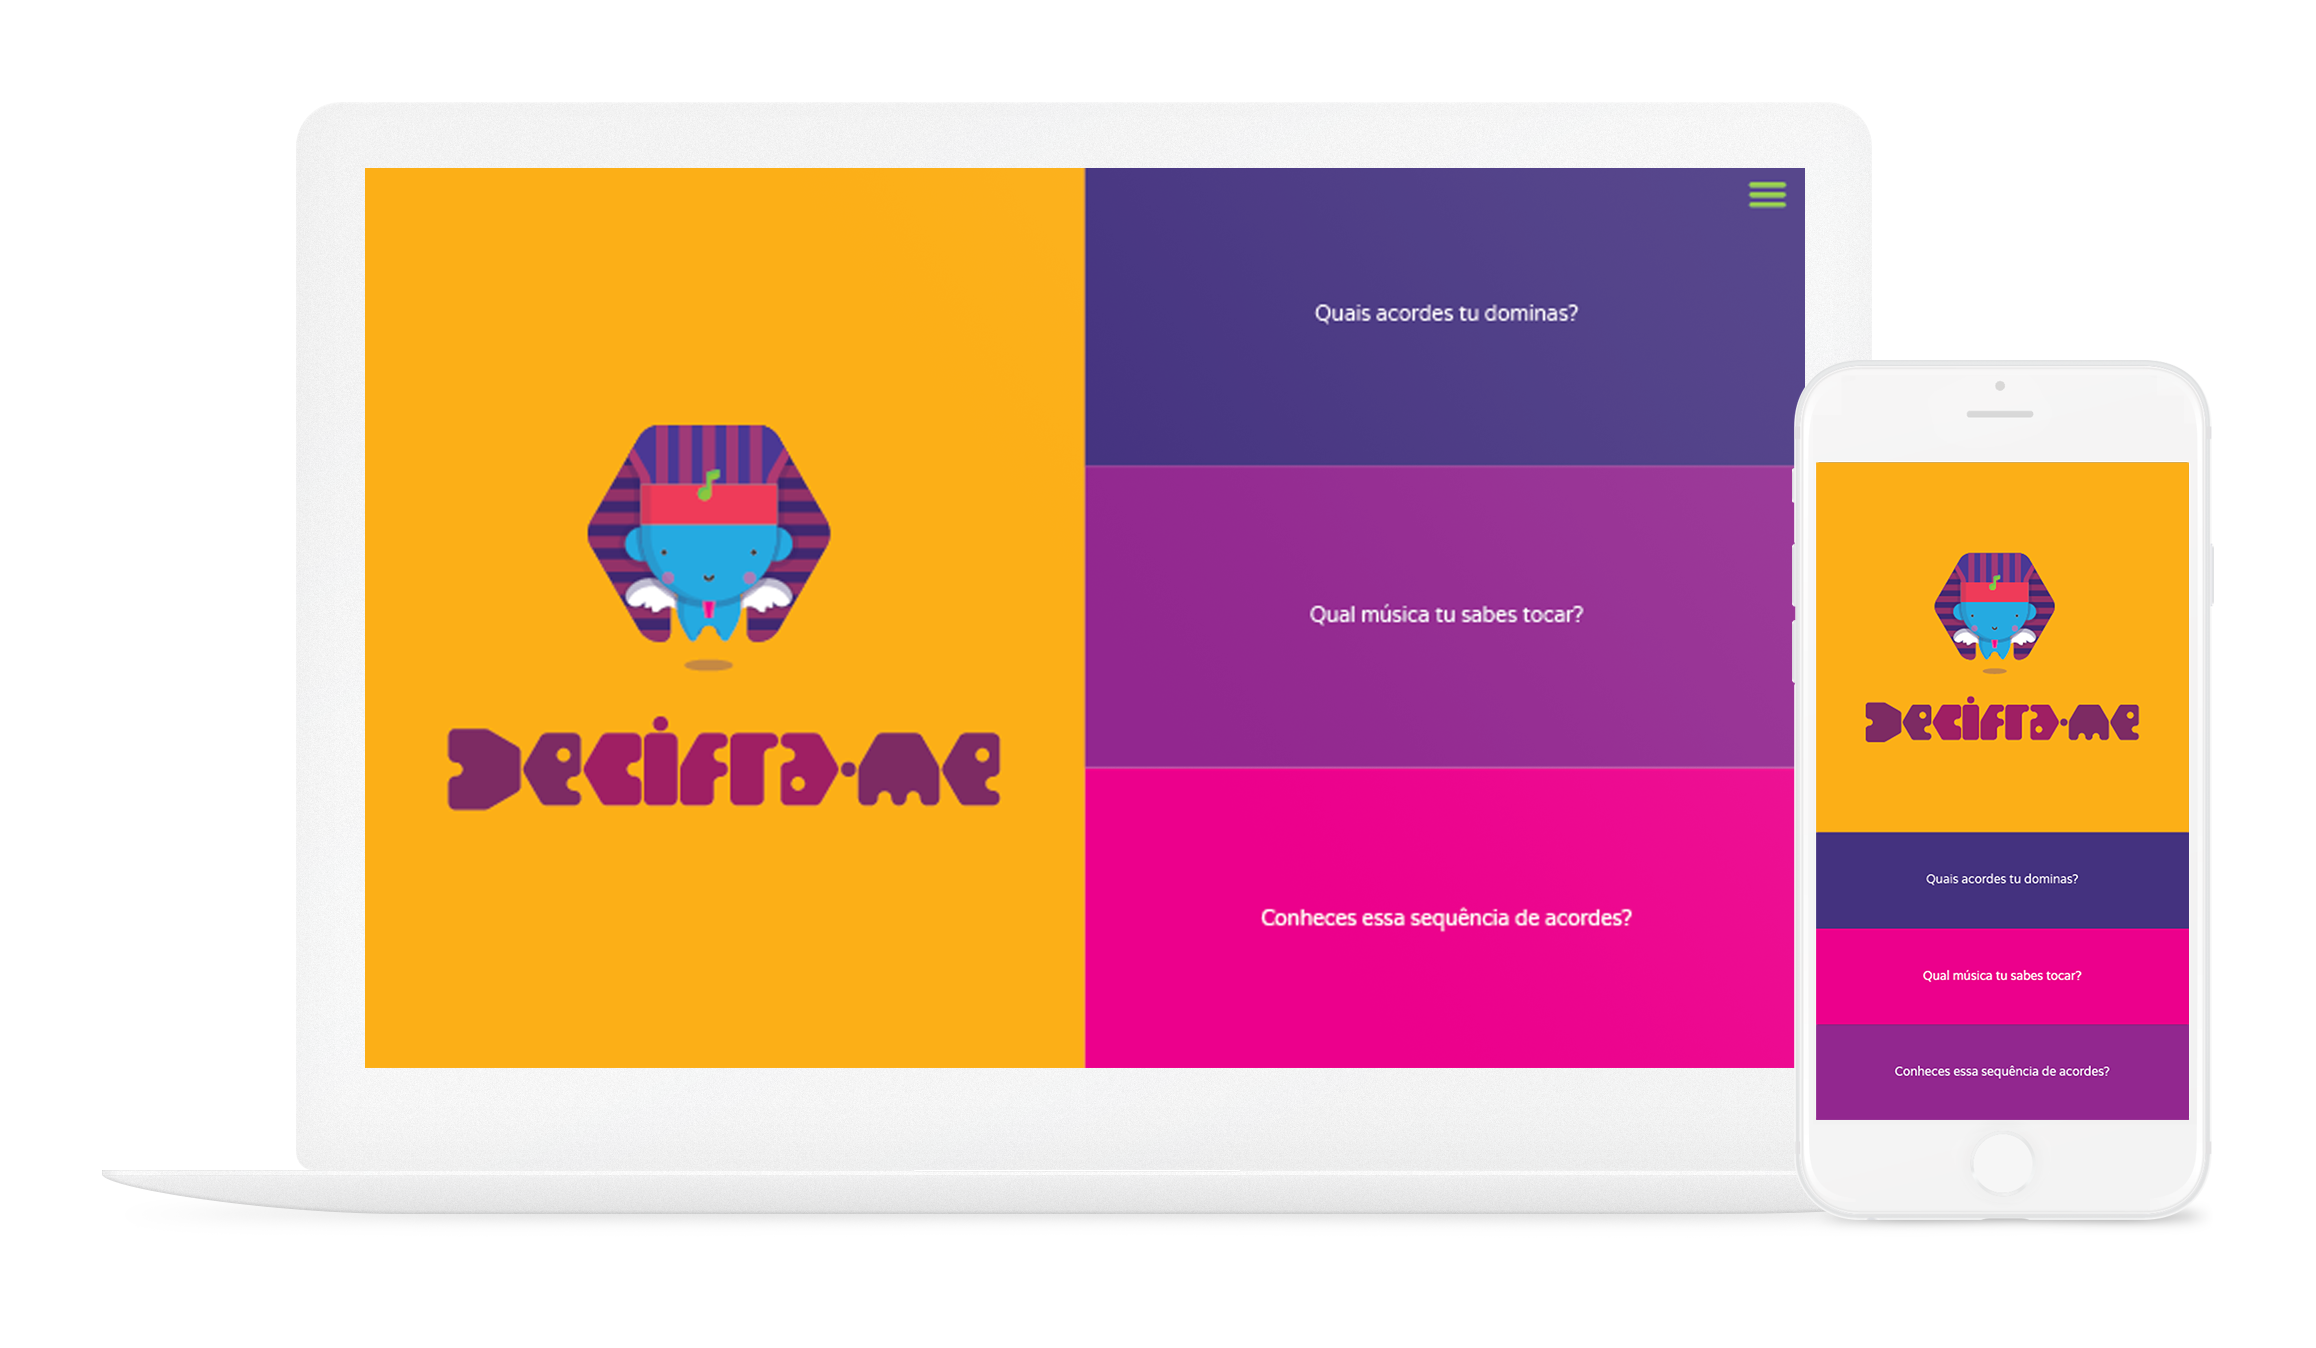
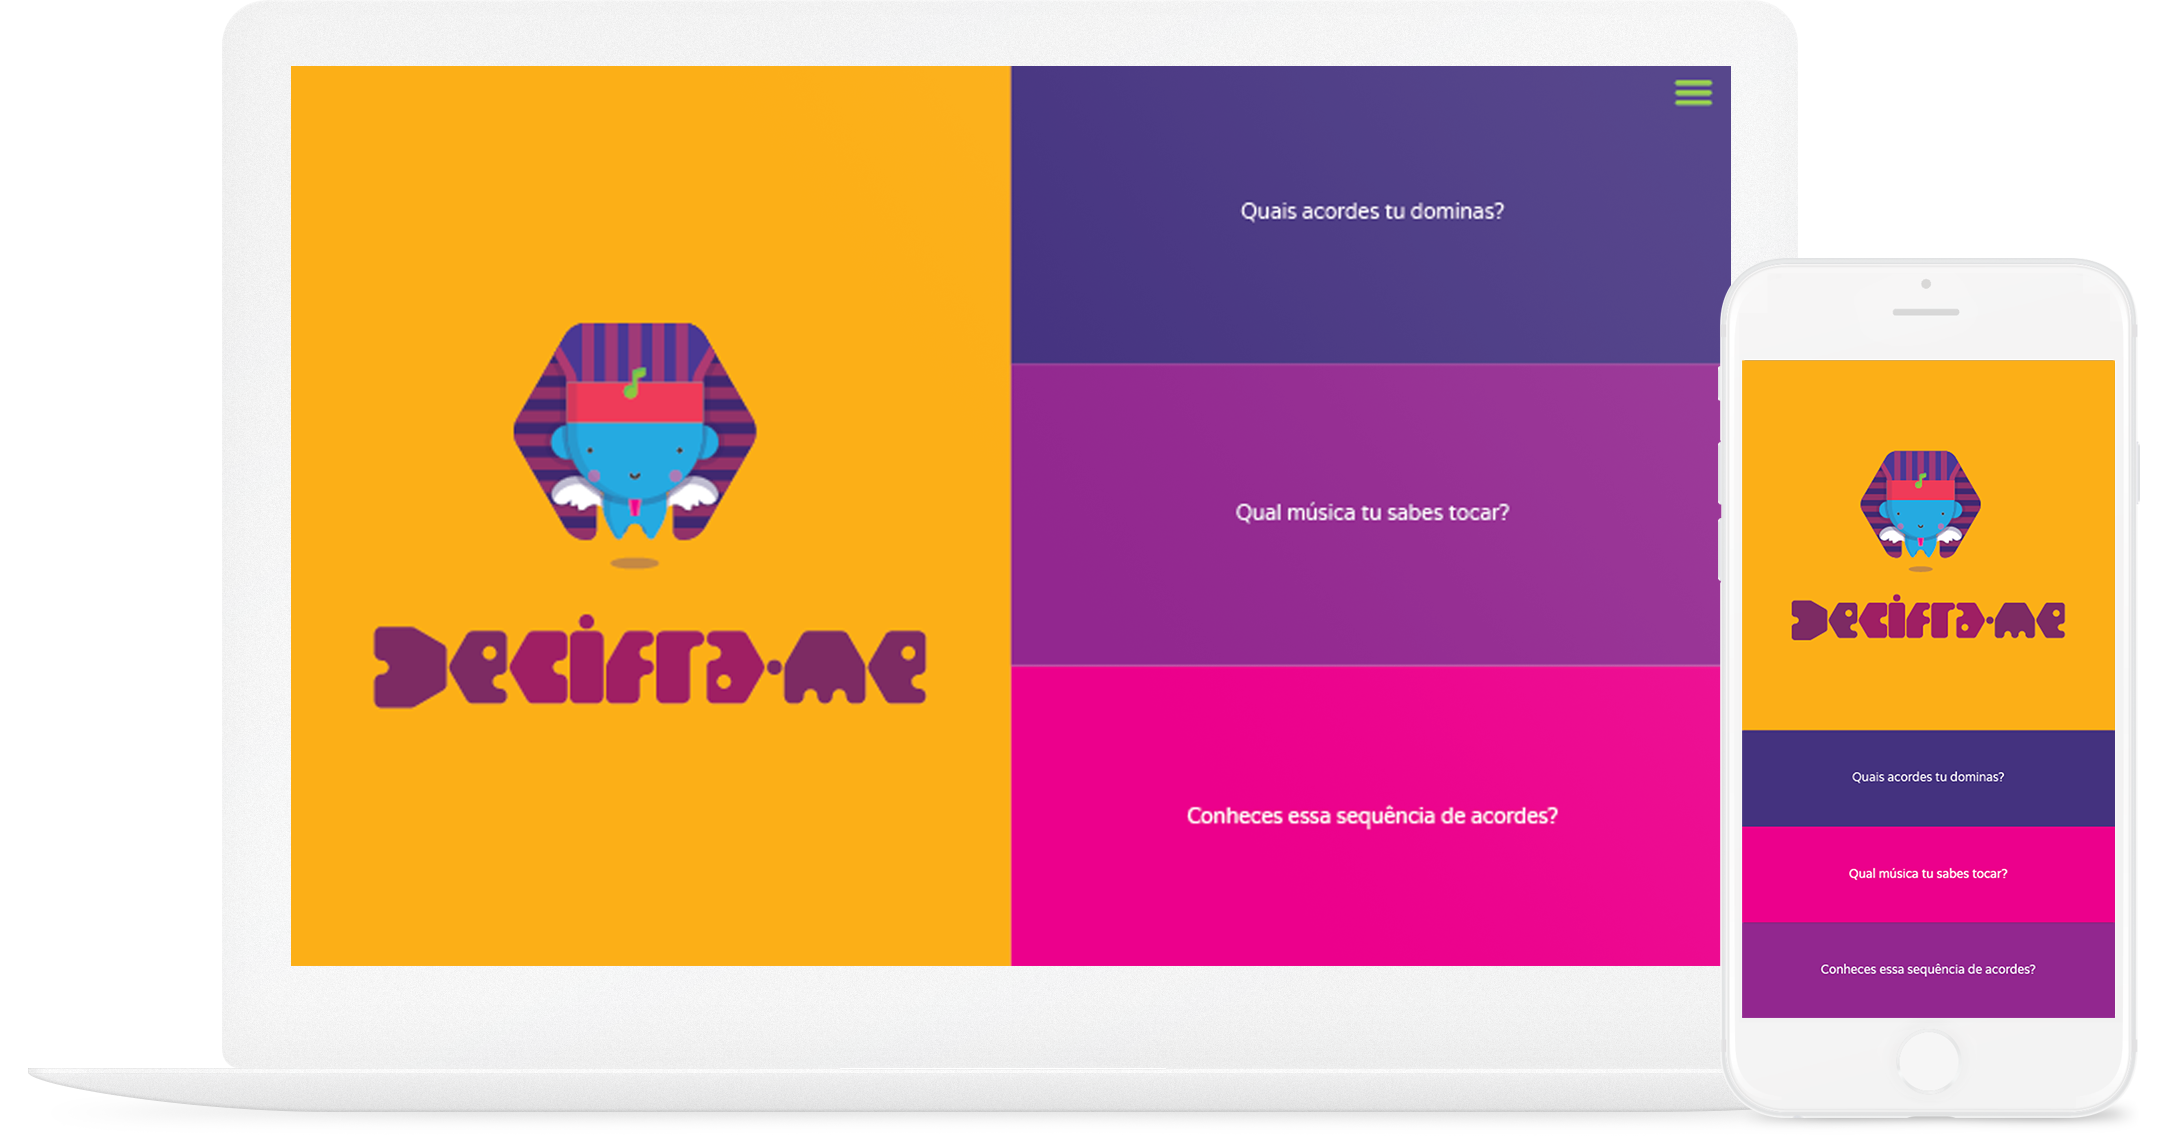
Ajeitei o espaçamento entre as divs se ligar na diferença de margin pra padding*

diff --git a/works-deciframe.html b/works-deciframe.html
@@ -60,13 +60,13 @@
       </div>
     </nav>
 
-    <div class="container container-no-padding">
-        <div class="container container-theme">
+    <div class="container container-theme">
+        <div class="container">
           <div class="heading-container">
             <h1 class="heading deciframe"><strong>Deciframe.com</strong></h1>
           </div>
         </div>
-        <div class="container container-theme">
+        <div class="container container-no-padding">
           <div class="row">
               <div class="linha col-4 col-md-4">
                 <h2><strong>The product</strong></h2>
@@ -89,13 +89,13 @@
     </div>
 
     <div class="vazado">
-      <div class="container container-theme vazado-card">
+      <div class="container vazado-card">
         <h4><strong>Background</strong><h4>
         <h4>Deciframe.com is a responsive web site created for people that are starting to play a new instrument and are learning the first notes. In the site, the user can search for songs that have the same musical chords they just learned. The search can find a new song in three different ways: By typing the name of a song they already know how to play and Decifra-me display song with the same chords; By selecting the chords that they have already learned and Decifra-me suggests the songs; And finally, by selecting a well known chords sequence.</h4>
       </div>
     </div>
 
-    <div class="container container-theme">
+    <div class="container process">
       <div class="row">
         <div class="col-12 col-md-12">
           <h2><strong>Process<strong></h2>
@@ -151,7 +151,7 @@
     </div>
 
     <div class="usability">
-      <div class="container container-theme">
+      <div class="container">
         <div class="row">
           <div class="col-6 col-md-6">
             <h4><strong>3.4 Usability</strong></h4>
@@ -172,9 +172,8 @@
           </div>
           <div class="col-6 col-md-6">
             <hr class="hr">
-            <hr class="hr">
             <div class="progress" style="height: 5px;">
-              <div class="progress-bar w-75 bg-success" role="progressbar" aria-valuenow="75" aria-valuemin="0" aria-valuemax="100">
+              <div class="progress-bar w-100 bg-success" role="progressbar" aria-valuenow="75" aria-valuemin="0" aria-valuemax="100">
               </div>
             </div>
             <h4>Loading bar - To avoid that the user feels anxious. Musical style filter - To ease the search.</h4>
@@ -190,7 +189,7 @@
     </div>
 
     <div class="final">
-      <div class="container container-theme">
+      <div class="container">
         <div class="row">
           <div class="col-6 col-md-6">
             <h4><strong>Final Result</strong></h4>

diff --git a/public/css/deciframe.css b/public/css/deciframe.css
@@ -27,12 +27,15 @@
 }
 
 .container-theme {
-  border-bottom: 2px;
+  border-bottom: 0px;
+  padding-bottom: 0px;
+  margin-bottom: 80px;
 }
 
 .heading, .deciframe {
   text-align: center;
   color: #ec008c;
+  margin-bottom: 80px;
 }
 
 h2 {
@@ -56,48 +59,51 @@ h4 {
   background-color: #EB088C;
   background-image: url("../img/deciframe_2.png");
   background-size: cover;
-  padding-top: 100px;
   padding: 40px;
-
-}
-
-.verdinha {
-  background-color: #35c1d2;
-  height: 200px;
 }
 
 .vazado-card {
   background-color: #4A3884;
 }
 
-.usability {
-  background-color: #4A3884;
+.process {
+  margin-top: 80px;
+  margin-bottom: 80px;
 }
 
-.final {
+.usability {
+  background-color: #4A3884;
+  padding-top: 80px;
+  padding-bottom: 80px;
+}
+
+.progress {
+  margin-top: 75px;
+  background-color: #97bf3d;
+}
+
+.final{
   background-color: #92278F;
+  padding-top: 80px;
+  padding-bottom: 80px;
 }
 
 @media (min-width: 768px) {
   .vazado .vazado-card {
-    padding: 5px;
-    padding-top: 100px;
-    padding-bottom: 80px;
+    padding: 80px;
+    padding-left: 8px;
+    padding-right: 8px;
     font-size: 2.3em;
 }
 
 @media (min-width: 992px) {
   .vazado, .vazado-card {
-    padding: 15px;
-    padding-top: 100px;
-    padding-bottom: 80px;
+    padding: 80px;
     font-size: 1em;
 }
 
 @media (min-width: 1200px) {
   .vazado .vazado-card {
-    padding: 60px;
+    padding: 80px;
     font-size: 4em;
-    padding-top: 100px;
-    padding-bottom: 80px;
 }
